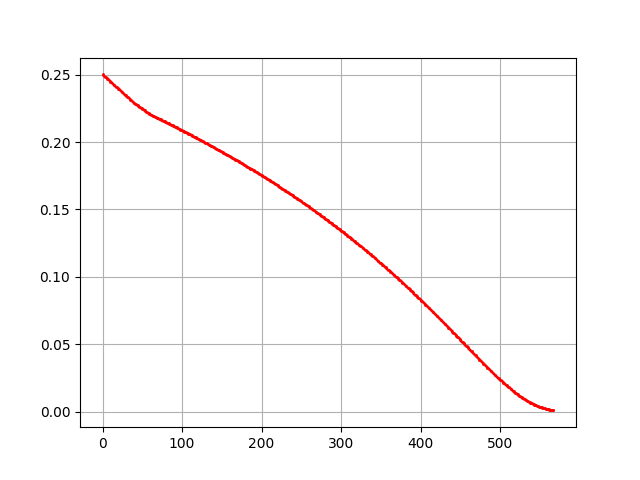
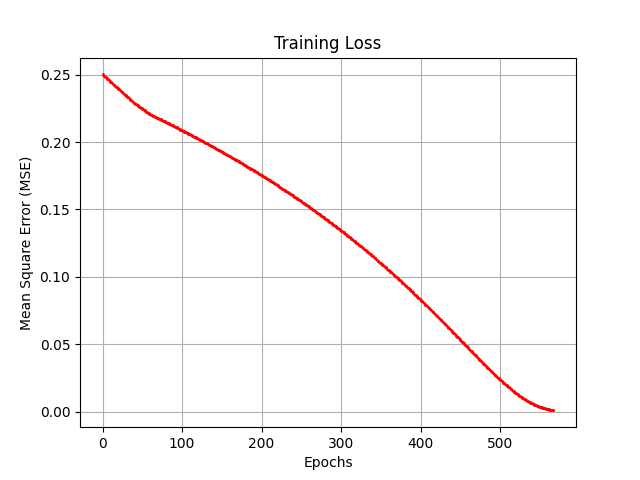
Adding title and axis labels

Changed region(s): [[0.0312, 0.3125, 0.0625, 0.6875], [0.4375, 0.0625, 0.5938, 0.125], [0.4688, 0.9375, 0.5625, 0.9688]]

diff --git a/utils/graph.py b/utils/graph.py
@@ -1,10 +1,20 @@
 import matplotlib.pyplot as plt
 
+import sys
+import os
+sys.path.append(os.path.dirname(os.path.dirname(os.path.abspath(__file__))))
+
+from utils.config import *
+
 def draw_loss(it_loss, filepath):
 
     for i in range(len(it_loss)):
         plt.plot(i, it_loss[i].detach().numpy(), marker='o', color='red', linestyle='-', linewidth=2, markersize=1)     
 
     plt.grid(b=True) # Add grid
+    plt.title(TITLE_LOSS)
+    plt.xlabel(X_AXIS)
+    plt.ylabel(Y_AXIS)
+
     plt.savefig(filepath)
     plt.show()

diff --git a/utils/config.py b/utils/config.py
@@ -19,6 +19,9 @@ A1_LOSS_IMG      = "A1_Loss"
 
 # Image
 IMAGE_FOLDER = "imgs"
+TITLE_LOSS   = "Training Loss"
+Y_AXIS       = "Mean Square Error (MSE)"
+X_AXIS       = "Epochs"
 
 # Variables
 DTYPE = torch.float
